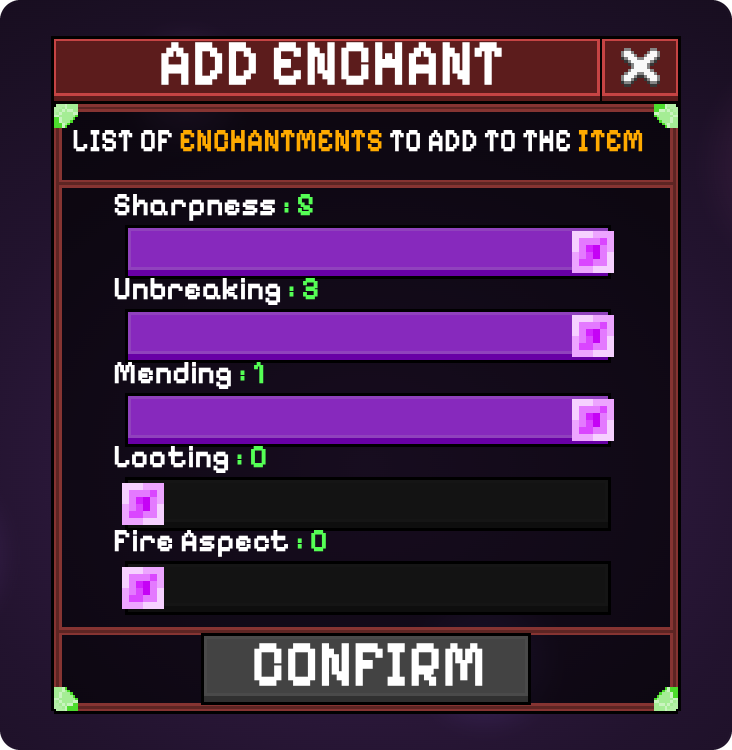
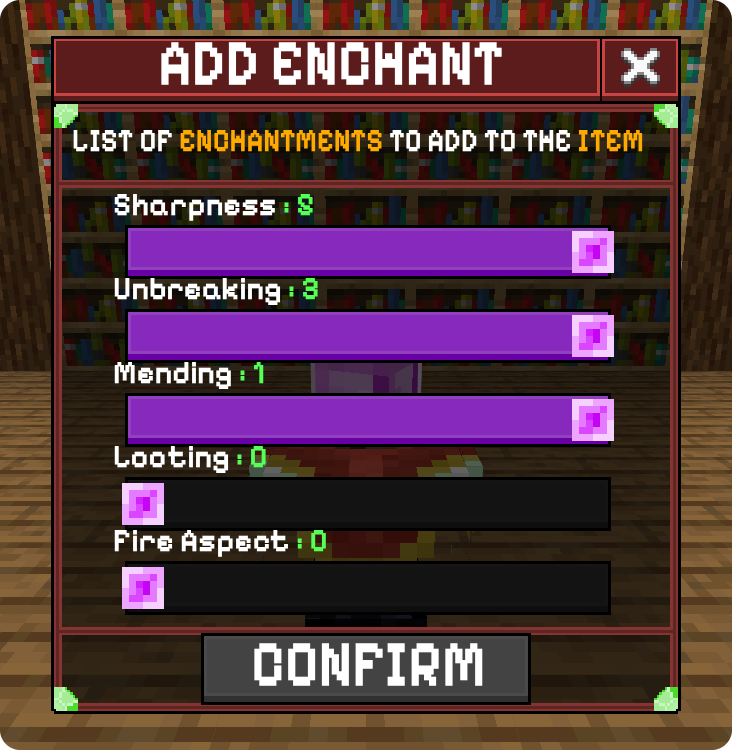
README pictures: use the game's own textures
The recipe card and the menu pictures now use Minecraft's textures from
Mojang's sample resource pack instead of stand-in drawings:

- recipes.png: the real amethyst shard, lapis lazuli, glass bottle and
  emerald icons, plus inventory-style renders of the obsidian and
  enchanting table blocks.
- menu-select.png, menu-enchant.png, menu-recap.png: the real iron
  sword, iron pickaxe and bow icons, the default Steve skin in the
  profile panel, and a bookshelf room with the Enchant+ table behind the
  translucent menu panels, as the game shows it.

Captions and credits in the README updated to match.

Claude-Session: https://claude.ai/code/session_01BAgWQcp6cDEzAc7tFmWHpS

diff --git a/README.md b/README.md
@@ -125,7 +125,7 @@ Choose an item to see its details and three actions: **Enchant**, **Disenchant**
   &nbsp;
   <img src="img/readme/menu-recap.png" width="520" alt="Menu Recap: the chosen levels, a total of 21 XP and 21 Enchant Essence, and the Cancel and Confirm buttons" />
   <br />
-  <sub>The menu pictures are drawn from the add-on's own interface layout and textures. In the game the profile panel shows your own character, and the fonts and item icons are the game's.</sub>
+  <sub>The menu pictures are rebuilt from the add-on's interface files with the game's own textures. In the game, the profile panel shows your own skin and the text uses the game's font.</sub>
 </p>
 
 1. Each slider is one enchantment the item can take. It starts at the current level and goes up to the maximum level.
@@ -261,6 +261,6 @@ img/                                  logo and the pictures in this README
 
 - **Original add-on:** Enchant+ by **Death_Aruban**, including its artwork, models, textures and menu design. See the [original repository](https://github.com/DeathAruban/Enchant-MCBE).
 - **Version 1.1.0:** update for Minecraft 26.60+, fixes and new features, built on the original.
-- **README pictures:** the animation and the menu pictures are made from the add-on's own model, textures, animation and interface files. The item icons and the hooded profile figure are new drawings, and the text uses the Pixelify Sans and Inter fonts (SIL Open Font License).
+- **README pictures:** made from the add-on's own model, textures, animation and interface files, together with Minecraft's item and block textures and the default Steve skin from Mojang's [sample resource pack](https://github.com/Mojang/bedrock-samples). The text in them uses the Pixelify Sans and Inter fonts (SIL Open Font License).
 
 The repository's `LICENSE` file contains CC0 1.0. The pack manifests name CC BY-ND 4.0, and each pack includes the original author's `Terms and Conditions` file. Those texts belong to the original author and are kept unchanged. Read them before sharing or publishing a modified version.
